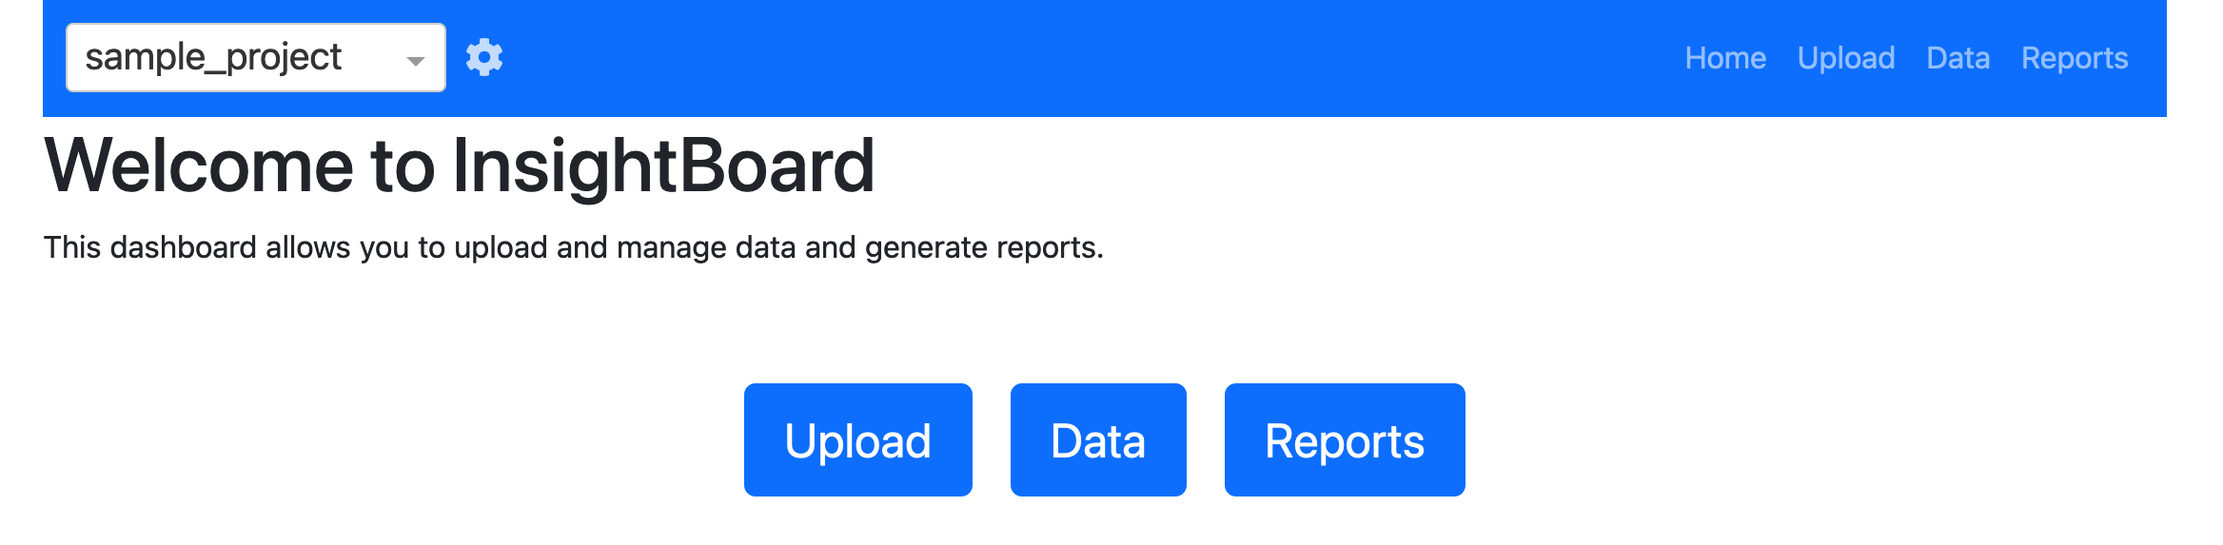
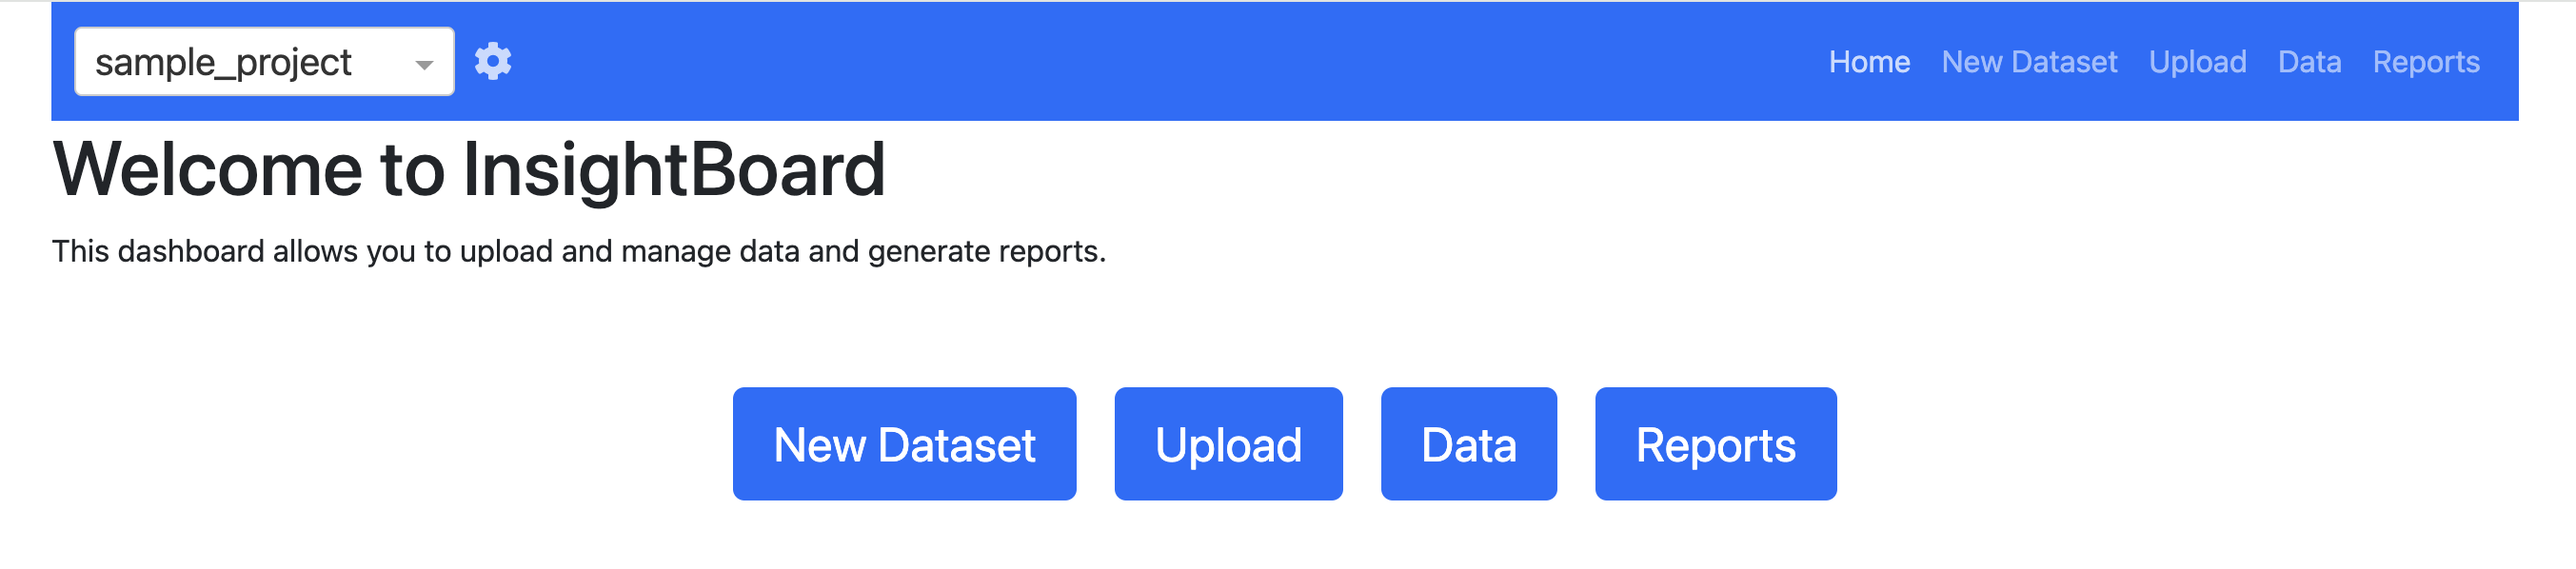
Adds description for autoparser use (#81)
Updates adtl version to enable list behaviour

diff --git a/src/InsightBoard/parsers/autoparser.py b/src/InsightBoard/parsers/autoparser.py
@@ -131,9 +131,7 @@ class AutoParser:
     ) -> tuple[pd.DataFrame, list]:
         clean_dict = self.cleanup_table(data_dict)
 
-        # PL: 'Description' if no LLM used, 'source_description' if not... need to fix
-        # inside adtl.autoparser
-        descriptions = clean_dict["source_description"]
+        descriptions = clean_dict["Description"]  # PL: pull this from the config file?
         if any(descriptions.isnull()):
             raise ValueError(
                 "The data dictionary is missing one or more field descriptions which "

diff --git a/docs/usage/index.md b/docs/usage/index.md
@@ -10,7 +10,7 @@
 
 ![Home](images/home.png)
 
-You can now choose to `Upload` data into the project database, view `Data` in the database, or run `Reports` on the database. Since the sample project is empty, let's start by uploading some data. Click on `Upload` to open the upload screen.
+You can now choose to `Upload` data into the project database, view `Data` in the database, run `Reports` on the database, or create a parser for a `New Dataset`. Since the sample project is empty, let's start by uploading some data. Click on `Upload` to open the upload screen.
 
 ### Upload data
 
@@ -39,3 +39,29 @@ On the data page you will be presented with a list of tables available in the da
 Reports provide a powerful tool to interrogate the data in the database. Reports are pre-configured using templates for more information). For now we have provided a sample report called `summary` that provides a brief summary of the data in the database, along with a few visualizations. Click on the `summary` report to generate the report. This can take some time with larger databases as the reports are generated on the most up-to-date data.
 
 ![reports](images/reports.png)
+
+### New Dataset
+
+Within the sample project, there are 2 'sample data' datasets. `sample_data_source1.csv` has a parser already provided, and it's use has been demonstrated above.
+`sample_data_source2.csv` does not, and is provided for you to try out the automated parser generation tooling, which uses LLMs.
+
+From the `Home` page or the using the navigation bar, select `New Dataset`. The screen will prompt you to select which LLM you wish to use, provide an API key for that model, choose the language the data is in, and upload the data. Select `sample_data_source2.csv` as your data this time, as we don't have a parser for that data yet. The first stage of this process is to create a 'data dictionary' which describes the properties of the dataset. An LLM can be used to auto-fill the 'description' column of the dictionary; if you would rather fill these in by hand you can toggle off the `Generate descriptions with LLM` option.
+
+
+Once these have been filled in, select `Create Dictionary`.
+
+![make-dict](images/new-parser-make-dict.png)
+
+A dictionary will now be displayed, showing the column names from `sample_data_source2.csv` as well as a description of what the column contains (which will be an English translation if non-english data is provided), the type of data in each column, and a set of `Common Values`. This is filled in with any entries deemed to be frequently occuring in the column, based on a value set in the config file, and the length of the dataset.
+
+At this point you should check that all the columns have been accurately described, and that there is **no identifying information** in the `Common Values` column. The LLM will be shown this data dictionary in the next step, so identifying information such as names, address etc should not be present.
+
+When you are satisfied that the dictionary is correct, select the `Create Mapping` button.
+
+![make-map](images/new-parser-make-map.png)
+
+The displayed table will now update to show mappings between the fields in the source dataset (`sample_data_source2.csv`) and the required fields from the target schema, along with mappings for any required terminology (listed as enum values in the schema). Both the field and value mapping have been generated by an LLM; while usually reasonably accurate they can make mistakes, so you should **check that both the field and values mappings** (scroll to the end of the table to see these) **are accurate**. As with the `Upload` screen, the data can be edited in the window.
+
+Once you are happy, create a name for the new parser and select the `Generate Parser` button. This will save a new parser to your `sample_project` folder, ready to be used in the [`Upload` screen](#upload-data).
+
+![make-toml](images/new-parser-make-toml.png)

diff --git a/docs/projects/components/parsers.md b/docs/projects/components/parsers.md
@@ -80,7 +80,7 @@ An example of a specification file is shown below, where full details of the `AD
   [linelist.country]
     field = "DateOfEvent"
     country = "place"
-    
+
     [linelist.country.values]
       "US" = "United States"
       "UK" = "United Kingdom"
@@ -99,3 +99,9 @@ def parse(data: pd.DataFrame) -> list[dict]:
 ```
 
 This will parse the data using the `ADTL` specification file located in `adtl/specification.toml` (path relative to the parser file) and return the parsed data as a list of dictionaries.
+
+### Writing new ADTL parsers
+
+InsightBoard provides an interface to ADTL's [`autoparser`](https://adtl.readthedocs.io/en/latest/autoparser/index.html) functionality, which uses LLMs to aid the creation of new parsers in a no-code interface.
+
+For instructions on how to use this interface, see the [Usage](../../usage/index.md) page.

diff --git a/docs/index.md b/docs/index.md
@@ -5,6 +5,7 @@ InsightBoard is a powerful tool for ingesting and reporting on data from multipl
 ## Key Features
 
 - Data Ingestion: Import data from multiple sources using custom parsers.
+- Parser Generation: Semi-automated generation of new custom parsers.
 - Schema Normalization: Homogenize incoming data to a target schema.
 - Centralized Database: Store all ingested data in a central repository for easy access and analysis.
 - Custom Reporting: Create personalized reports with filters, aggregations, and visual representations of the data.
